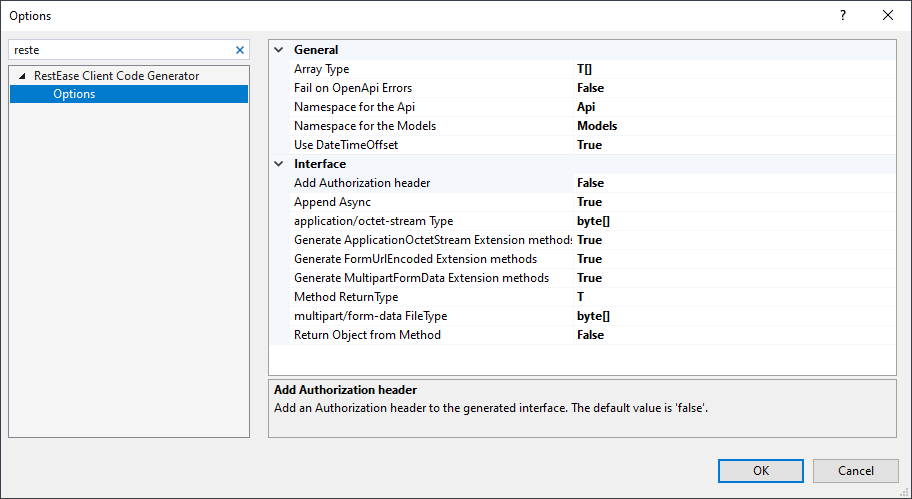
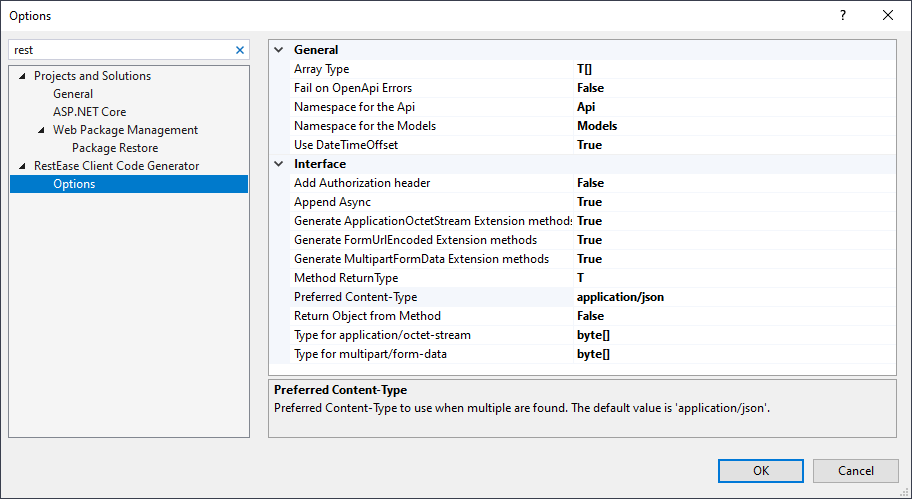
.

diff --git a/src/RestEaseClientGenerator.VSIX/Options/RestEase/RestEaseOptionsPage.cs b/src/RestEaseClientGenerator.VSIX/Options/RestEase/RestEaseOptionsPage.cs
@@ -2,8 +2,6 @@ using Microsoft.VisualStudio.Shell;
 using RestEaseClientGenerator.Types;
 using System.ComponentModel;
 using System.Diagnostics.CodeAnalysis;
-using RestEaseClientGenerator.Constants;
-using RestEaseClientGenerator.Extensions;
 
 namespace RestEaseClientGenerator.VSIX.Options.RestEase
 {
@@ -57,12 +55,12 @@ namespace RestEaseClientGenerator.VSIX.Options.RestEase
         public MethodReturnType MethodReturnType { get; set; }
 
         [Category(Interface)]
-        [DisplayName("multipart/form-data FileType")]
+        [DisplayName("Type for multipart/form-data")]
         [Description("The MultipartFormData FileType to use. The default value is 'byte[]'.")]
         public MultipartFormDataFileType MultipartFormDataFileType { get; set; }
 
         [Category(Interface)]
-        [DisplayName("application/octet-stream Type")]
+        [DisplayName("Type for application/octet-stream")]
         [Description("The ApplicationOctetStream Type to use. The default value is 'byte[]'.")]
         public ApplicationOctetStreamType ApplicationOctetStreamType { get; set; }
 

diff --git a/README.md b/README.md
@@ -113,8 +113,8 @@ var findPetsByTags = await petStoreApi.FindPetsByTagsAsync(new[] { "cat" });
 | Append Async | Append Async postfix to all methods. The default value is 'true'.
 | Add Authorization header | Add an Authorization header to the generated interface. The default value is 'false'.
 | Method ReturnType | The ReturnType to use for the methods. The default value is 'Type'. For more details see https://github.com/canton7/RestEase#return-types.
-| multipart/form-data FileType | The MultipartFormData FileType to use. The default value is 'byte[]'.
-| application/octet-stream Type | The ApplicationOctetStream Type to use. The default value is 'byte[]'.
+| Type for multipart/form-data | The MultipartFormData FileType to use. The default value is 'byte[]'.
+| Type for application/octet-stream | The ApplicationOctetStream Type to use. The default value is 'byte[]'.
 | Generate MultipartFormData Extension methods | Generate Extension methods for MultipartFormData methods. The default value is 'true'.
 | Generate FormUrlEncoded Extension methods | Generate Extension methods for FormUrlEncoded methods. The default value is 'true'.
 | Generate ApplicationOctetStream Extension methods | Generate Extension methods for ApplicationOctetStream methods. The default value is 'true'.
